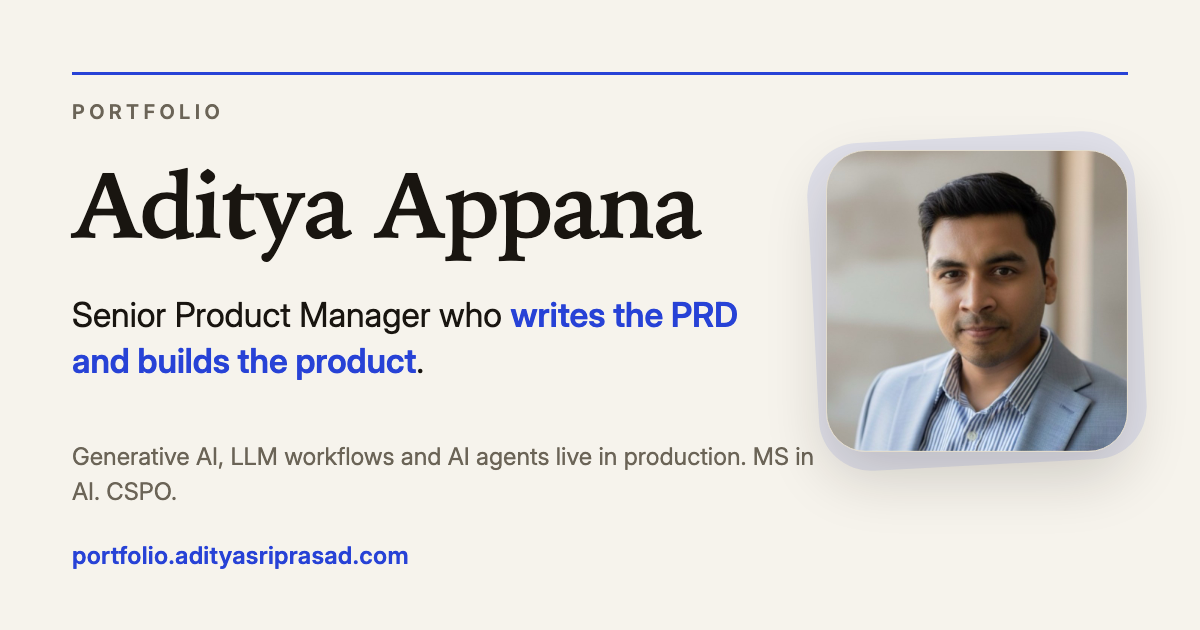
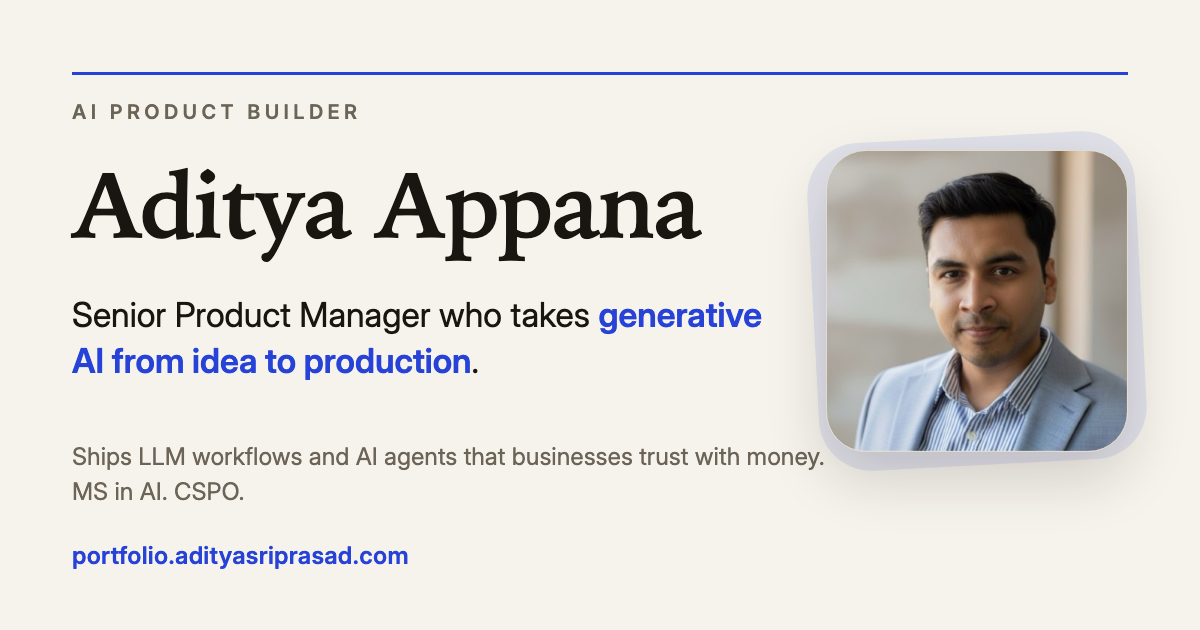
Reposition preview card as AI Product Builder
Updates the Open Graph image and descriptions to the AI Product Builder positioning: takes generative AI from idea to production, ships LLM workflows and AI agents that businesses trust with money.

Claude-Session: https://claude.ai/code/session_01Ti4aTETW52csjtoyr74prg

diff --git a/index.html b/index.html
@@ -6,9 +6,9 @@
     <meta name="viewport" content="width=device-width, initial-scale=1.0, viewport-fit=cover" />
     <meta name="theme-color" content="#F6F3EC" />
     <title>Aditya Appana — AI Product Manager</title>
-    <meta name="description" content="Senior Product Manager with an MS in AI who writes the PRD and builds the product. Generative AI, LLM workflows and AI agents live in production." />
+    <meta name="description" content="AI Product Builder with an MS in AI. Senior Product Manager who takes generative AI from idea to production, shipping LLM workflows and AI agents that businesses trust with money." />
     <meta property="og:title" content="Aditya Appana — AI Product Manager" />
-    <meta property="og:description" content="Senior Product Manager who writes the PRD and builds the product. Generative AI, LLM workflows and AI agents live in production." />
+    <meta property="og:description" content="AI Product Builder. Senior Product Manager who takes generative AI from idea to production, shipping LLM workflows and AI agents that businesses trust with money." />
     <meta property="og:type" content="website" />
     <meta property="og:url" content="https://portfolio.adityasriprasad.com/" />
     <meta property="og:site_name" content="Aditya Appana" />
@@ -17,10 +17,10 @@
     <meta property="og:image:type" content="image/png" />
     <meta property="og:image:width" content="1200" />
     <meta property="og:image:height" content="630" />
-    <meta property="og:image:alt" content="Aditya Appana, Senior Product Manager who writes the PRD and builds the product" />
+    <meta property="og:image:alt" content="Aditya Appana, AI Product Builder, Senior Product Manager who takes generative AI from idea to production" />
     <meta name="twitter:card" content="summary_large_image" />
     <meta name="twitter:title" content="Aditya Appana — AI Product Manager" />
-    <meta name="twitter:description" content="Senior Product Manager who writes the PRD and builds the product. Generative AI, LLM workflows and AI agents live in production." />
+    <meta name="twitter:description" content="AI Product Builder. Senior Product Manager who takes generative AI from idea to production, shipping LLM workflows and AI agents that businesses trust with money." />
     <meta name="twitter:image" content="https://portfolio.adityasriprasad.com/og.png" />
     <link rel="preconnect" href="https://fonts.googleapis.com" />
     <link rel="preconnect" href="https://fonts.gstatic.com" crossorigin />
